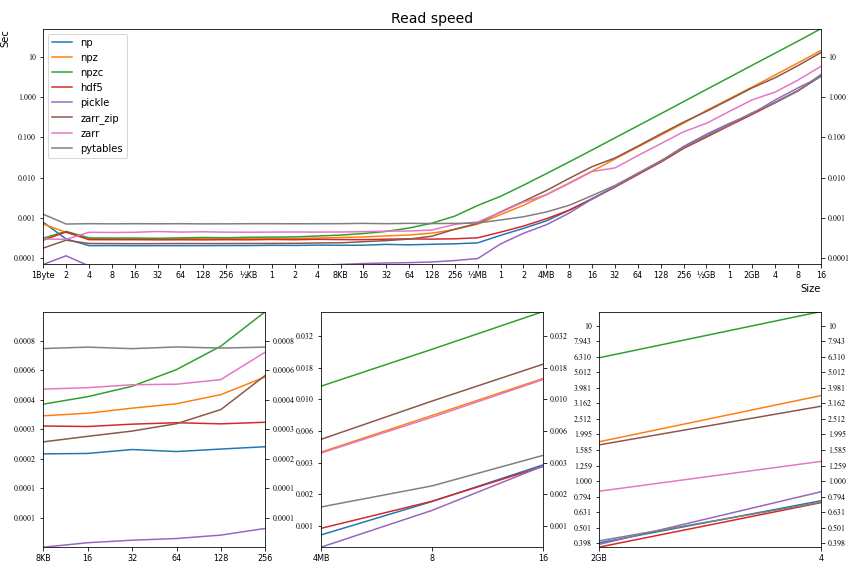
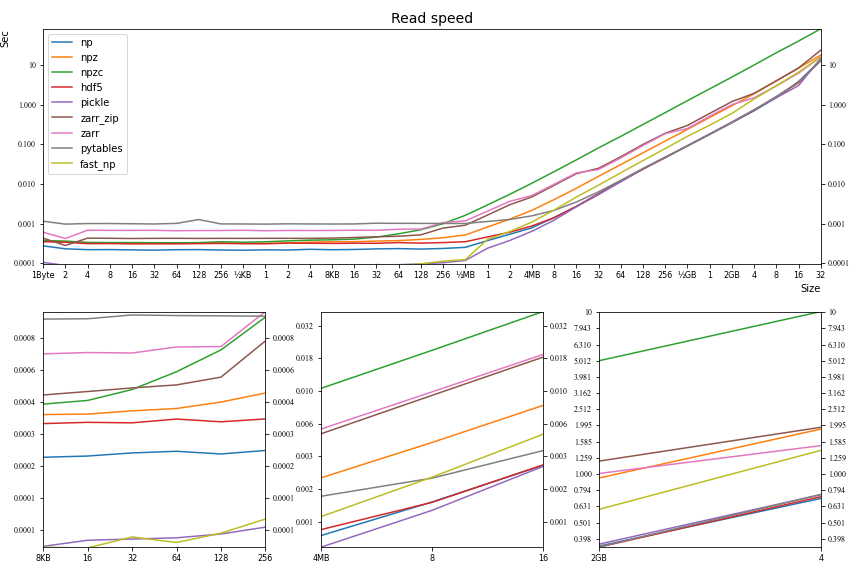
Add files via upload
with updated libraries, a new method, and up to 32gb

diff --git a/npabench/npabench_result.html b/npabench/npabench_result.html
@@ -22,15 +22,15 @@ table td:first-child {
 <img src="npabench_result_4.png"/>
 <div class="monospace">
 Library versions:
-<table><tr><td>numpy:          </td><td>1.22.0
+<table><tr><td>numpy:          </td><td>1.23.5
 </td></tr>
 <tr><td>pickle:         </td><td>4.0
 </td></tr>
-<tr><td>h5py:           </td><td>3.6.0 (using hdf5 version: 1.12.1)
+<tr><td>h5py:           </td><td>3.7.0 (using hdf5 version: 1.12.2)
 </td></tr>
-<tr><td>tables:         </td><td>3.6.1 (using hdf5 version: 1.12.1)
+<tr><td>tables:         </td><td>3.7.0 (using hdf5 version: 1.12.2)
 </td></tr>
-<tr><td>zarr:           </td><td>2.10.3
+<tr><td>zarr:           </td><td>2.13.3
 </td></tr>
 </table></div>
 <br><div class="monospace">
@@ -41,14 +41,16 @@ System information:
 </td></tr>
 <tr><td>Memory:         </td><td>128GB
 </td></tr>
-<tr><td>OS:             </td><td>Windows 10 (10.0.19044)
+<tr><td>OS:             </td><td>Windows 10 (10.0.22621)
 </td></tr>
 </table></div>
-<br><div class="monospace">This result was generated with command line: <b>npabench.py --max-size 16gb --no-browser --save-html-file npabench_result.html</b></div>
+<br><div class="monospace">This result was generated with command line: <b>npabench.py --max-size 32gb --no-browser --save-html-file npabench_result.html</b></div>
+
 <br>
 <div class="monospace" style="font-size:11px;">
 <br>
 <a href="https://github.com/omasoud/np-array-io-bench">
+
 <svg xmlns="http://www.w3.org/2000/svg" xmlns:xlink="http://www.w3.org/1999/xlink" width="122" height="20">
 	<linearGradient id="b" x2="0" y2="100%">
 		<stop offset="0" stop-color="#bbb" stop-opacity=".1" />
@@ -68,7 +70,8 @@ System information:
 		<text x="735" y="150" fill="#010101" fill-opacity=".3" transform="scale(.1)" textLength="870">View On
 			GitHub</text><text x="735" y="140" transform="scale(.1)" textLength="870">View On GitHub</text>
 	</g>
-</svg>
+</svg>	
+
 </a>
 <br>
 Copyright (c) 2022 O. Masoud
